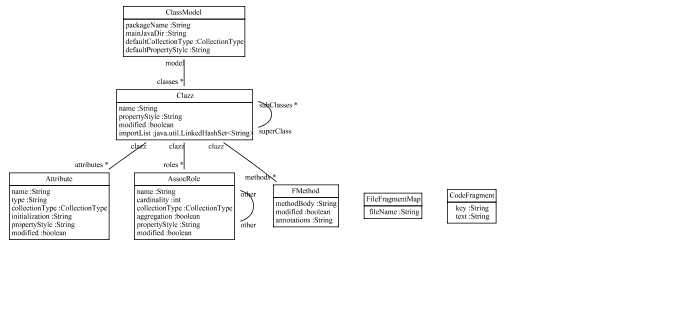
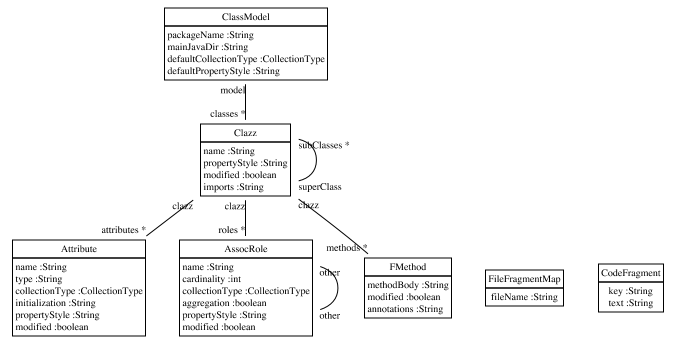
Generate class diagram in GenModel

diff --git a/src/gen/java/org/fulib/GenModel.java b/src/gen/java/org/fulib/GenModel.java
@@ -22,6 +22,8 @@ public class GenModel implements ClassModelDecorator
       ClassModel model = mb.getClassModel();
       Fulib.generator().generate(model);
       // end_code_fragment:
+
+      FulibTools.classDiagrams().dumpPng(model);
    }
 
    @Override
